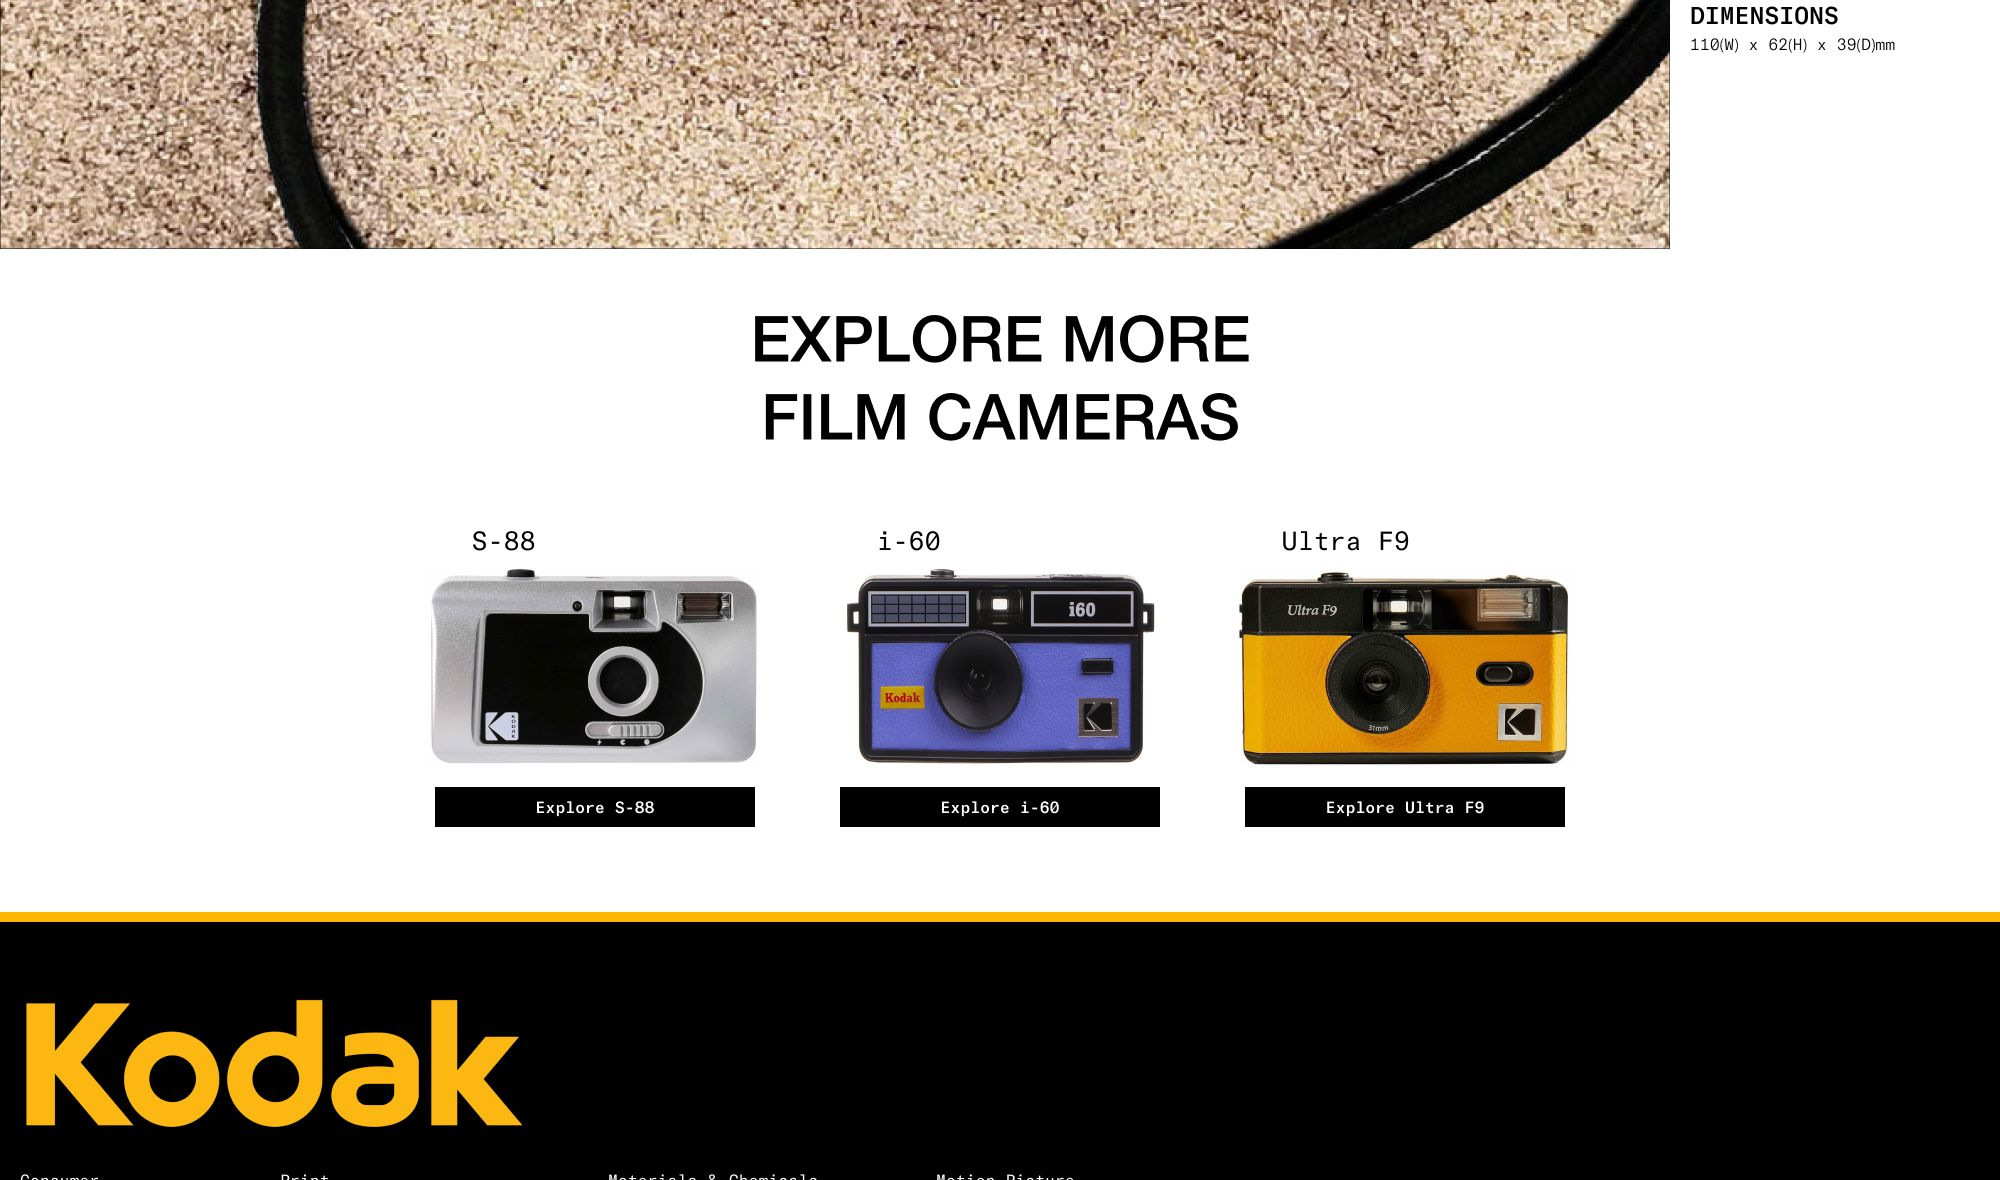
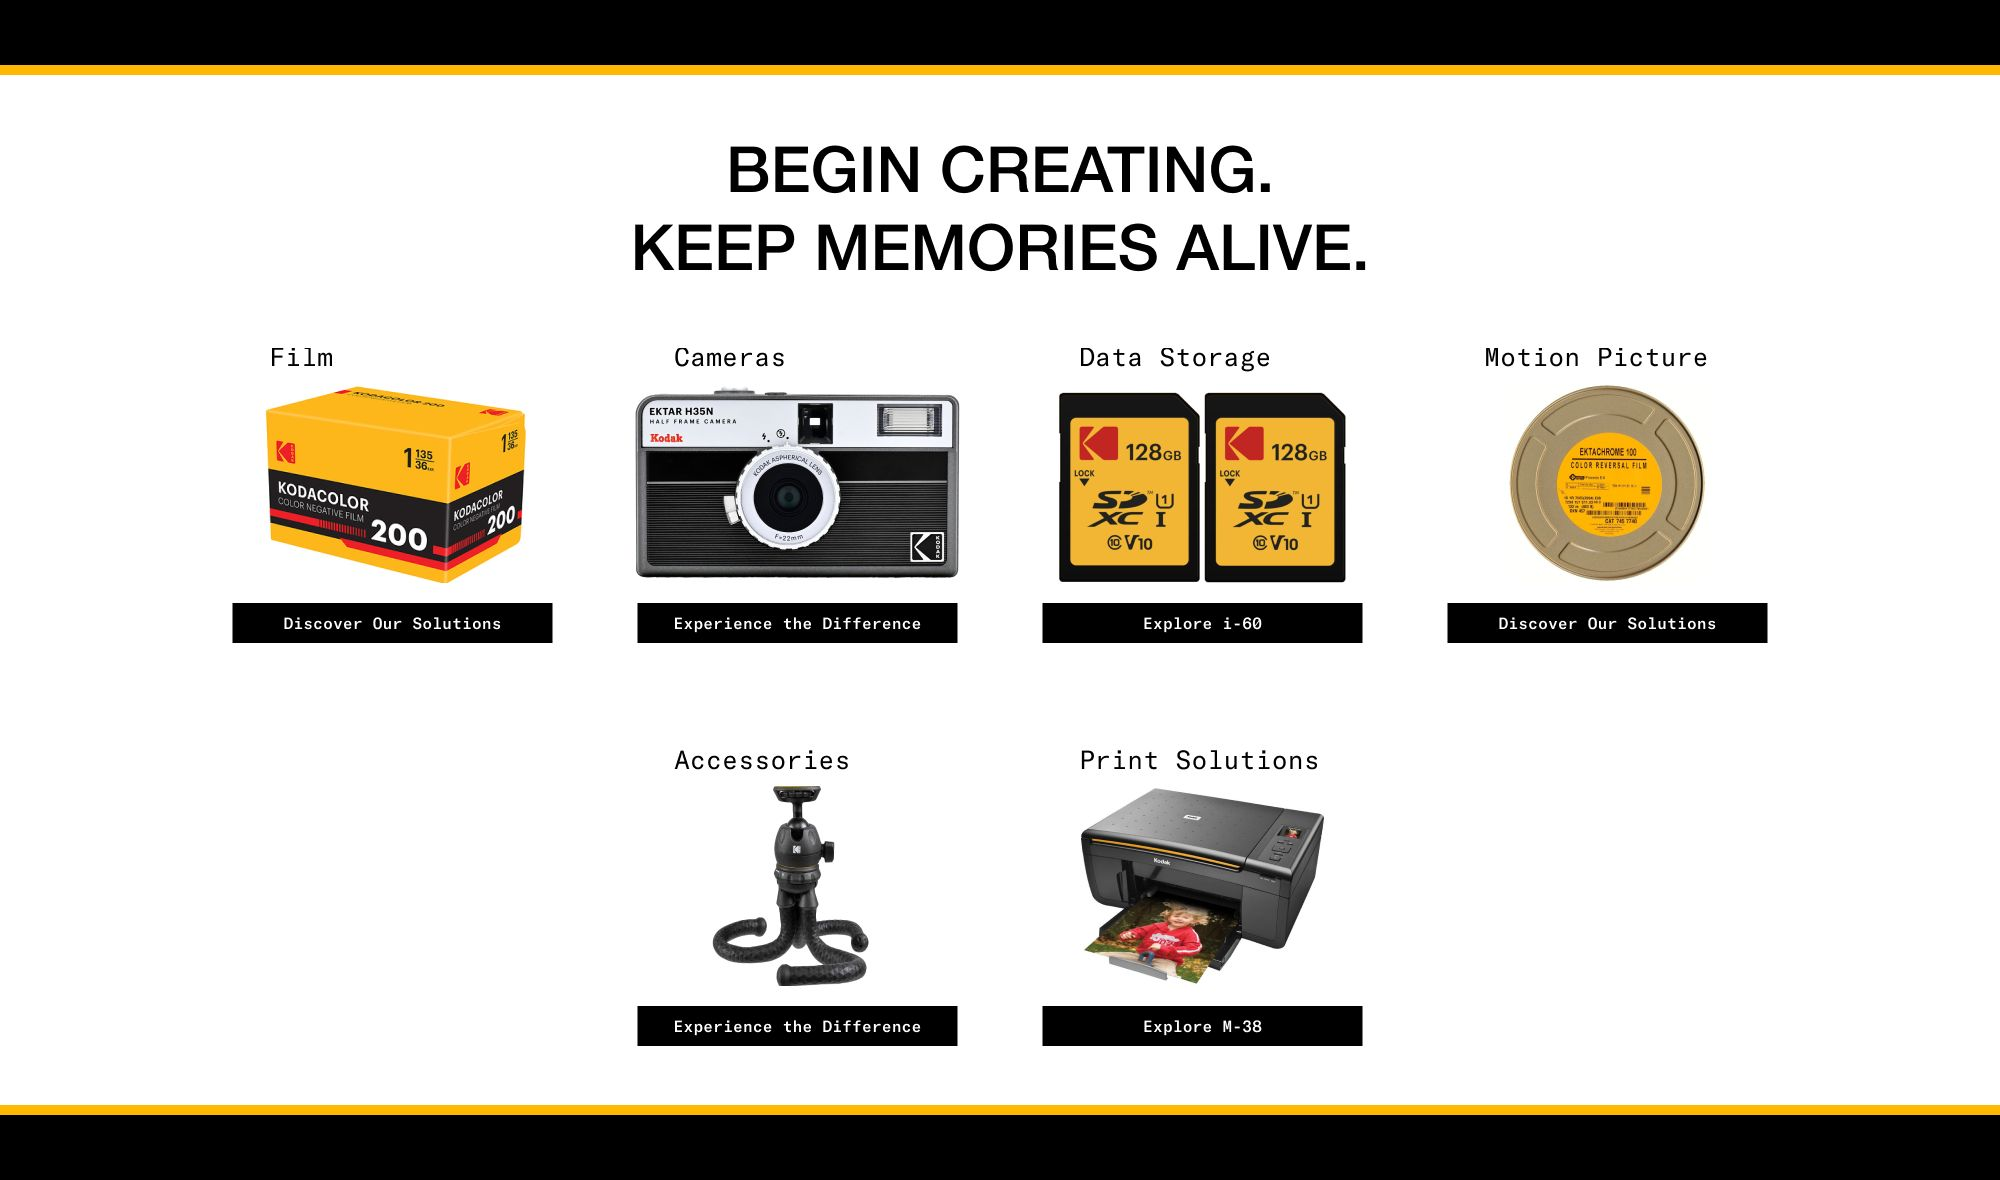
Kodak before/after: homepage six-product stack against the old card grid

diff --git a/index.html b/index.html
@@ -4691,10 +4691,10 @@
         <div class="kd-swipe-tags" aria-hidden="true"><span>Before</span><span>After</span></div>
       </figure>
       <figure class="kd-swipe" style="--delay: -5s">
-        <figcaption>More Cameras</figcaption>
+        <figcaption>Product Options</figcaption>
         <div class="kd-swipe-box">
-          <img data-src="portfolio projects/Kodak/web/before/new-cameras.jpg" alt="The redesign, more cameras" loading="lazy" width="2000" height="1180">
-          <div class="kd-swipe-old"><img data-src="portfolio projects/Kodak/web/before/old-cameras.jpg" alt="The current Kodak website, more cameras" loading="lazy" width="2000" height="1180"></div>
+          <img data-src="portfolio projects/Kodak/web/before/new-cameras.jpg" alt="The redesign, product options as a stack of six" loading="lazy" width="2000" height="1180">
+          <div class="kd-swipe-old"><img data-src="portfolio projects/Kodak/web/before/old-cameras.jpg" alt="The current Kodak website, products as cards" loading="lazy" width="2000" height="1180"></div>
           <div class="kd-swipe-line" aria-hidden="true"></div>
         </div>
         <div class="kd-swipe-tags" aria-hidden="true"><span>Before</span><span>After</span></div>
